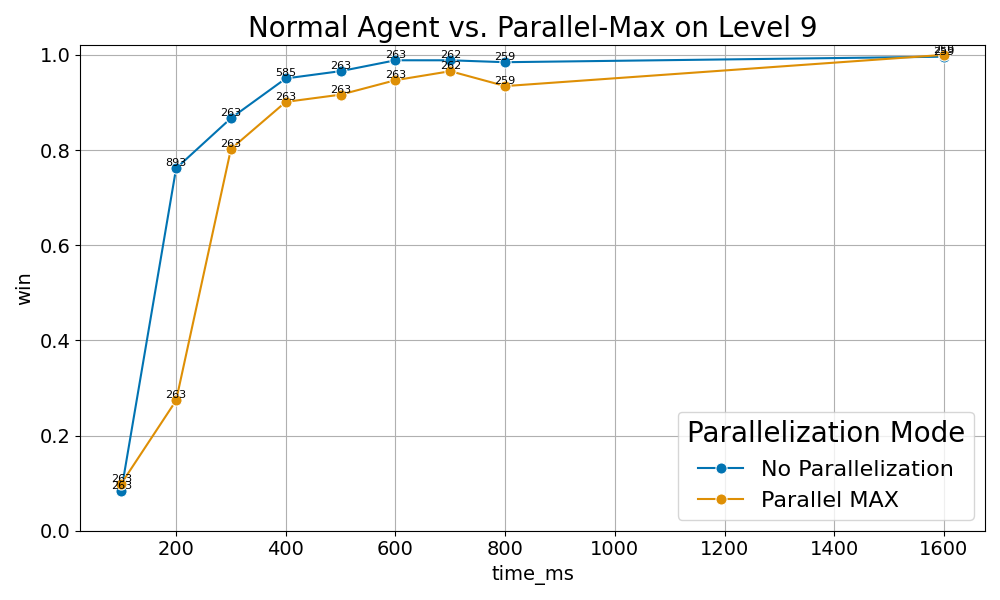
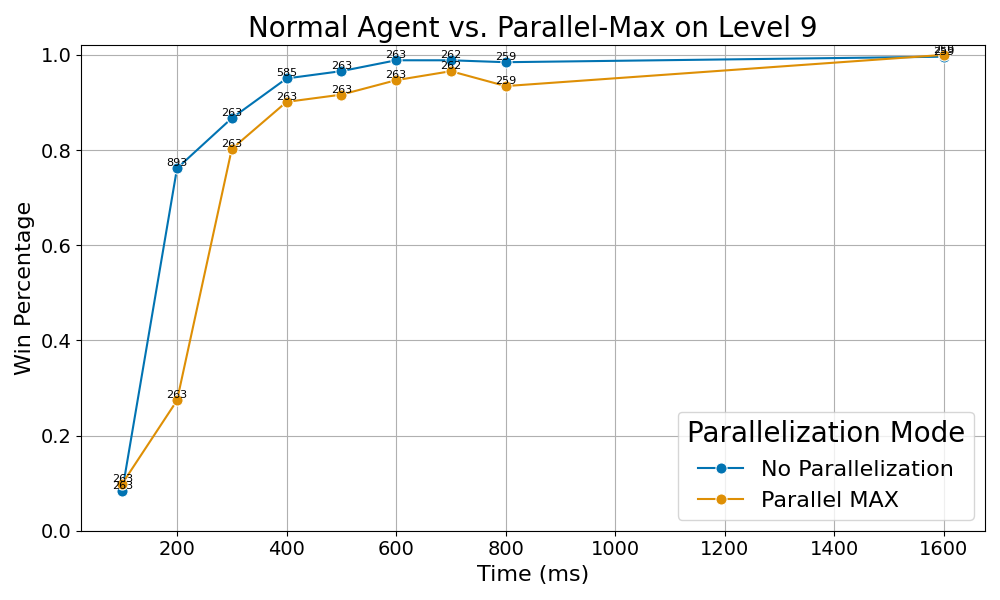
Updated axis labels

diff --git a/game_ai/plot_utils.py b/game_ai/plot_utils.py
@@ -75,7 +75,7 @@ to_legend_title.update(
         "heuristic_mode": "Heuristic Mode",
         "selection_mode": "Selection Mode",
         "loss_heuristic": "Loss Heuristic",
-        "win": "Win",
+        "win": "Win Percentage",
         "num_steps": "Amount of Steps",
         "name_in_legend": "Agent Description",
     }
@@ -185,8 +185,8 @@ def plot_pvz_data(
         title = f"{x_axis} vs {y_axis}"
 
     plt.title(title, fontsize=20)
-    plt.xlabel(x_axis, fontsize=14)
-    plt.ylabel(y_axis, fontsize=14)
+    plt.xlabel(to_legend_title[x_axis], fontsize=16)
+    plt.ylabel(to_legend_title[y_axis], fontsize=16)
     plt.xticks(fontsize=14)
     plt.yticks(fontsize=14)
     plt.grid(True)
